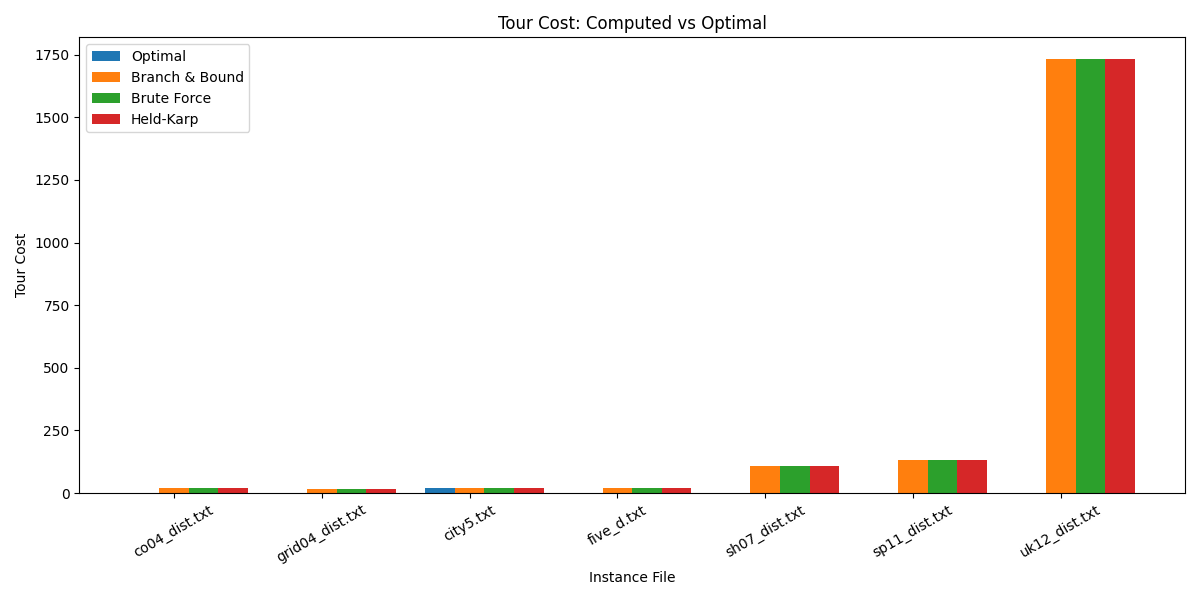
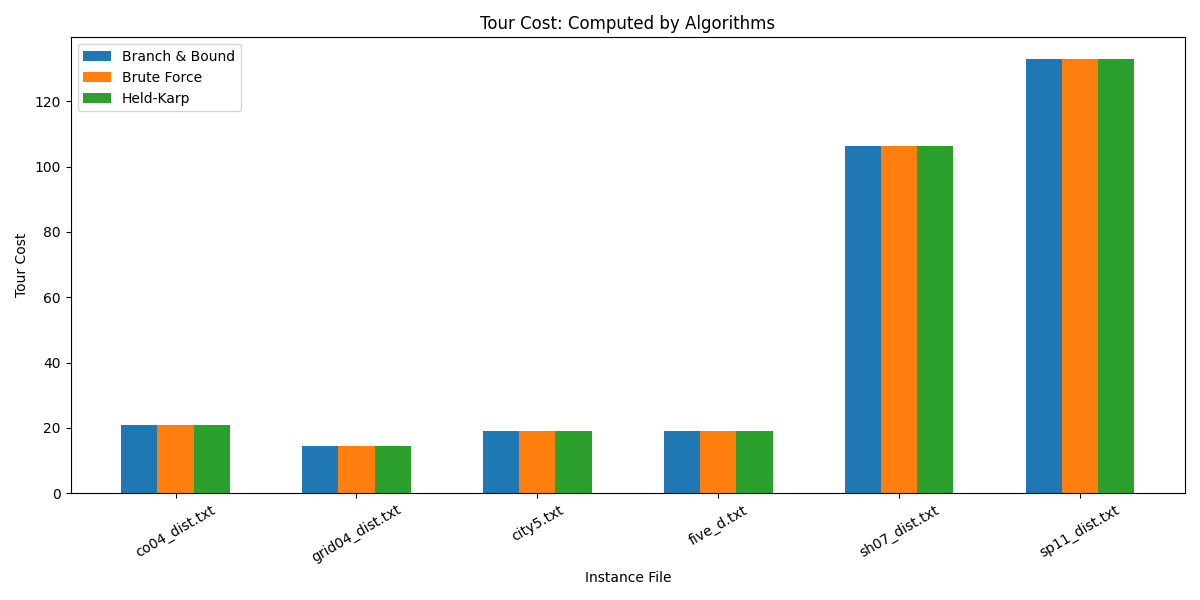
updates exact result plt

diff --git a/ExactAlgorithmMatrixRunner.py b/ExactAlgorithmMatrixRunner.py
@@ -26,53 +26,38 @@ def plot_running_time_vs_number_of_cities(city_nums, results_by_algorithm, algor
     plt.show()
 
 
-def plot_cost_comparison(filenames, results_by_algorithm, algorithms, optimal_solutions):
-    if optimal_solutions:
-        opt_values = np.array([optimal_solutions.get(name, 0) for name in filenames])
-        bar_width = 0.2
-        x = np.arange(len(filenames))
-        plt.figure(figsize=(12, 6))
-        plt.bar(x - bar_width, opt_values, width=bar_width, label="Optimal")
-        for algo_name, offset in zip(algorithms, range(1, len(algorithms)+1)):
-            plt.bar(x - bar_width + offset * bar_width, results_by_algorithm[algo_name]['costs'],
-                    width=bar_width, label=algo_name)
-        plt.xlabel("Instance File")
-        plt.ylabel("Tour Cost")
-        plt.title("Tour Cost: Computed vs Optimal")
-        plt.xticks(x, filenames, rotation=30)
-        plt.legend()
-        plt.tight_layout()
-        plt.savefig('comparison_costs.png')
-        plt.show()
-
-
-def plot_gap_comparison(filenames, results_by_algorithm, algorithms):
+def plot_cost_comparison(filenames, results_by_algorithm, algorithms):
+    bar_width = 0.2
+    x = np.arange(len(filenames))
     plt.figure(figsize=(12, 6))
-    for algo_name in algorithms:
-        gaps = results_by_algorithm[algo_name]['gaps']
-        plt.plot(filenames, gaps, marker='x', label=algo_name)
+
+    for algo_name, offset in zip(algorithms, range(len(algorithms))):
+        plt.bar(x + offset * bar_width, results_by_algorithm[algo_name]['costs'],
+                width=bar_width, label=algo_name)
+
     plt.xlabel("Instance File")
-    plt.ylabel("Gap (Computed - Optimal)")
-    plt.title("Error Gap per Algorithm")
-    plt.xticks(rotation=30)
-    plt.grid(True)
+    plt.ylabel("Tour Cost")
+    plt.title("Tour Cost: Computed by Algorithms")
+    plt.xticks(x + bar_width * (len(algorithms) - 1) / 2, filenames, rotation=30)
     plt.legend()
     plt.tight_layout()
-    plt.savefig('comparison_gaps.png')
+    plt.savefig('comparison_costs.png')
     plt.show()
+
+
 # =============================================================================
 #                               Runner
 # =============================================================================
 class ExactAlgorithmMatrixRunner:
 
-    def run_on_folder(self, folder: str, optimal_solutions: Dict[str, float] = None):
+    def run_on_folder(self, folder: str):
         algorithms: Dict[str, Callable[[list], tuple]] = {
             'Branch & Bound': lambda matrix: ExactTSPSolver().branch_and_bound_solver(matrix),
             'Brute Force': lambda matrix: ExactTSPSolver().brute_force_solver(matrix),
             'Held-Karp': lambda matrix: ExactTSPSolver().held_karp_solver(matrix),
         }
 
-        results_by_algorithm = {name: {'times': [], 'costs': [], 'gaps': []} for name in algorithms}
+        results_by_algorithm = {name: {'times': [], 'costs': []} for name in algorithms}
         city_nums = []
         filenames = []
 
@@ -87,23 +72,23 @@ class ExactAlgorithmMatrixRunner:
                 continue
 
             city_num = len(matrix)
-            opt = optimal_solutions.get(filename, None)
 
             print(f"\nRunning {filename} ({city_num} cities)...")
             city_nums.append(city_num)
             filenames.append(filename)
 
             for algo_name, algo_func in algorithms.items():
-                start = time.time()
-                cost, _ = algo_func(matrix)#只要第一个值cost 第二个值path用不到
-                duration = time.time() - start
+                try:
+                    start = time.time()
+                    cost, _ = algo_func(matrix)
+                    duration = time.time() - start
 
-                gap = cost - opt if opt is not None else None
-                results_by_algorithm[algo_name]['times'].append(duration)
-                results_by_algorithm[algo_name]['costs'].append(cost)
-                results_by_algorithm[algo_name]['gaps'].append(gap)
+                    results_by_algorithm[algo_name]['times'].append(duration)
+                    results_by_algorithm[algo_name]['costs'].append(cost)
 
-                print(f"  [{algo_name}] Cost: {cost}, Time: {duration:.4f}s, Gap: {gap if gap is not None else 'N/A'}")
+                    print(f"  [{algo_name}] Cost: {cost}, Time: {duration:.4f}s")
+                except Exception as e:
+                    print(f"  [{algo_name}] failed: {e}")
 
         # Sort all results by city count
         sort_index = np.argsort(city_nums)
@@ -111,19 +96,17 @@ class ExactAlgorithmMatrixRunner:
         filenames = np.array(filenames)[sort_index]
 
         for algo_name in algorithms:
-            for key in ['times', 'costs', 'gaps']:
-                results_by_algorithm[algo_name][key] = np.array(results_by_algorithm[algo_name][key])[sort_index]
+            for key in ['times', 'costs']:
+                values = results_by_algorithm[algo_name][key]
+                if len(values) != len(sort_index):
+                    print(f"Skipping sorting for {algo_name} - {key} due to length mismatch.")
+                    continue
+                results_by_algorithm[algo_name][key] = np.array(values)[sort_index]
 
         # PLOT
         plot_running_time_vs_number_of_cities(city_nums, results_by_algorithm, algorithms)
-        plot_cost_comparison(filenames, results_by_algorithm, algorithms, optimal_solutions)
-        plot_gap_comparison(filenames, results_by_algorithm, algorithms)
-
-
+        plot_cost_comparison(filenames, results_by_algorithm, algorithms)
 
 if __name__ == "__main__":
-    optimal_solutions = {
-        "city5.txt": 19,
-       }
     runner = ExactAlgorithmMatrixRunner()
-    runner.run_on_folder("exact_data", optimal_solutions)
+    runner.run_on_folder("exact_data")

diff --git a/AntColonyOptimizationAlgorithm.py b/AntColonyOptimizationAlgorithm.py
@@ -156,9 +156,9 @@ def read_distance_matrix(file_path):
     return np.array(matrix)
 
 # 使用方法
-distance_matrix = read_distance_matrix("example/d1655.txt")
+distance_matrix = read_distance_matrix("example/gr21.txt")
 
-aco = AntColony(distance_matrix, num_ants=20, num_iterations=50)
+aco = AntColony(distance_matrix, num_ants=50, num_iterations=20)
 best_path, best_dist = aco.run()
 
 print("Best path:", best_path)
